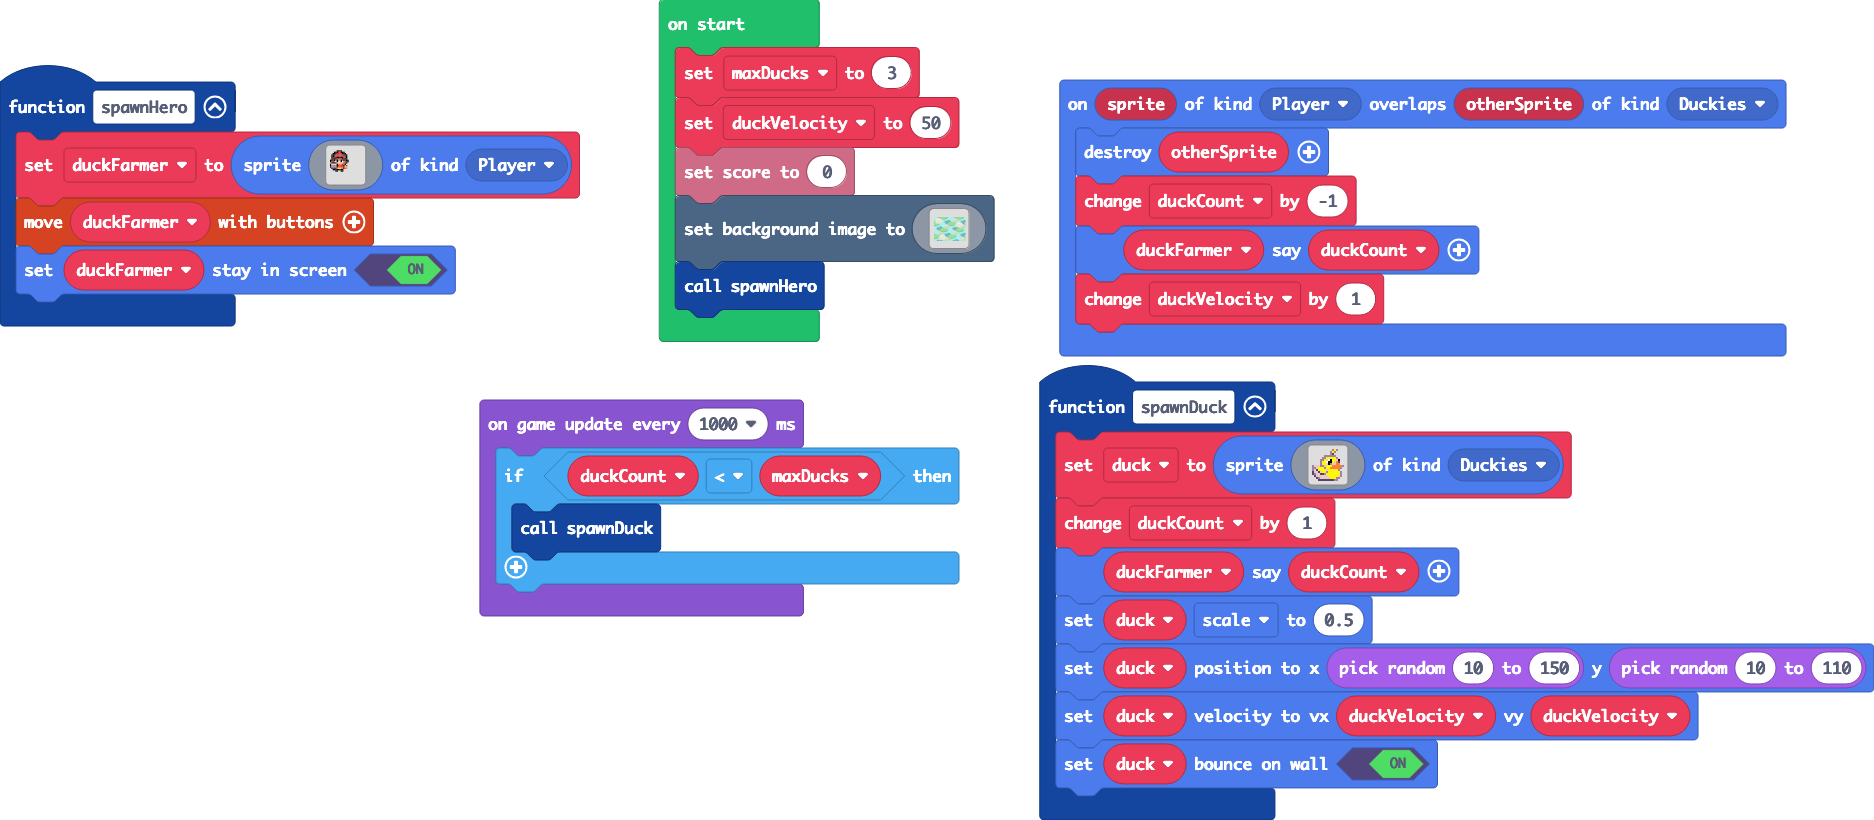
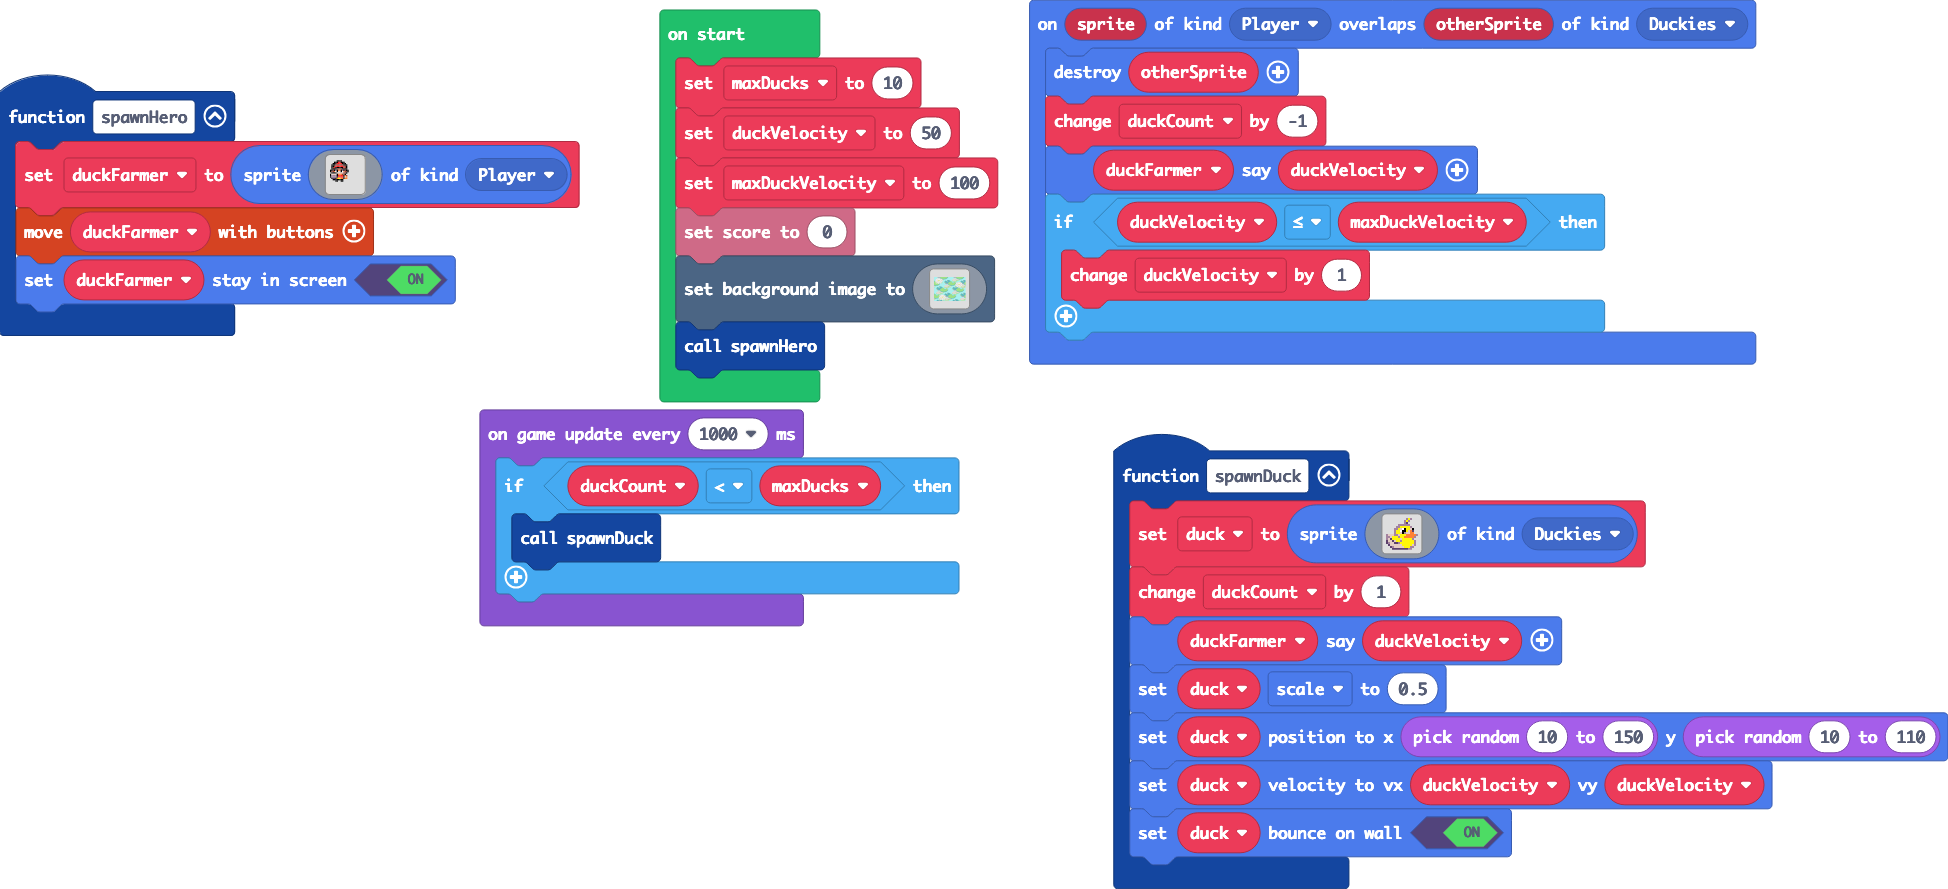
Set maxVelocity to limit difficulty

diff --git a/main.ts b/main.ts
@@ -21,7 +21,7 @@ function spawnDuck () {
         . . . c c c c c c c c b b . . . 
         `, SpriteKind.Duckies)
     duckCount += 1
-    duckFarmer.sayText(duckCount)
+    duckFarmer.sayText(duckVelocity)
     duck.scale = 0.5
     duck.setPosition(randint(10, 150), randint(10, 110))
     duck.setVelocity(duckVelocity, duckVelocity)
@@ -30,8 +30,10 @@ function spawnDuck () {
 sprites.onOverlap(SpriteKind.Player, SpriteKind.Duckies, function (sprite, otherSprite) {
     sprites.destroy(otherSprite)
     duckCount += -1
-    duckFarmer.sayText(duckCount)
-    duckVelocity += 1
+    duckFarmer.sayText(duckVelocity)
+    if (duckVelocity <= maxDuckVelocity) {
+        duckVelocity += 1
+    }
 })
 function spawnHero () {
     duckFarmer = sprites.create(img`
@@ -66,9 +68,11 @@ function spawnHero () {
 let duckFarmer: Sprite = null
 let duckCount = 0
 let duck: Sprite = null
+let maxDuckVelocity = 0
 let duckVelocity = 0
-let maxDucks = 3
+let maxDucks = 10
 duckVelocity = 50
+maxDuckVelocity = 100
 info.setScore(0)
 scene.setBackgroundImage(img`
[1 lines of base64/hex data omitted]
